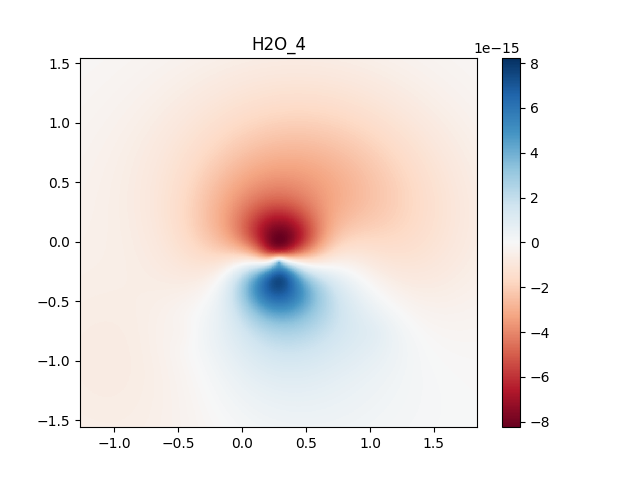
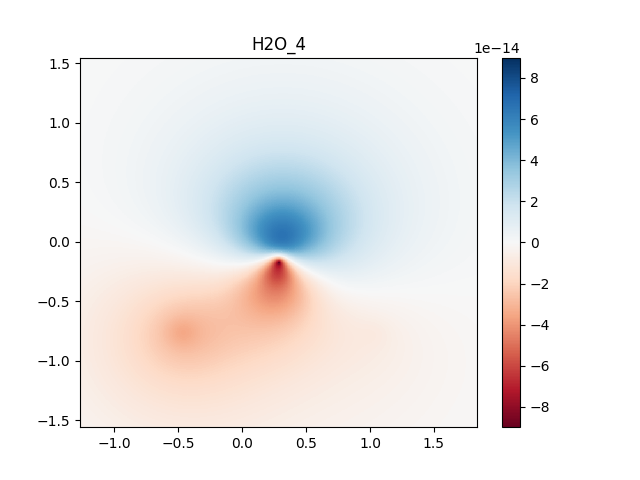
big optimization

diff --git a/src/BasisSet.cpp b/src/BasisSet.cpp
@@ -151,30 +151,68 @@ void BasisSet::calculateOverlapIntegrals()
 
 void BasisSet::calculateTwoElectronIntegrals()
 {
-	_D_Matrix.resize(_basisFucntion.size());
-	for (int i = 0; i < _basisFucntion.size(); i++)
-	{
-		_D_Matrix[i].resize(_basisFucntion.size());
-		for (int j = 0; j < _basisFucntion.size(); j++)
-		{
-			_D_Matrix[i][j].resize(_basisFucntion.size());
-			for (int k = 0; k < _basisFucntion.size(); k++)
-			{
-				_D_Matrix[i][j][k].resize(_basisFucntion.size());
-				std::vector<std::future<void>> futures;
-				for (int l = 0; l < _basisFucntion.size(); l++)
-				{
-					auto wsk = &_D_Matrix[i][j][k][l];
-					auto bs = &_basisFucntion;
-					futures.push_back(std::async(std::launch::async, [wsk, i, j, k, l, bs]() {
-						*wsk = ContractedGTO::calulateTwoElectronIntegral((*bs)[i], (*bs)[j], (*bs)[k], (*bs)[l]); }));
-				}
-				for (auto& e : futures)
-					e.wait();
-			}
-		}
+	auto siz = _basisFucntion.size();
 
+	_D_Matrix = new double[siz*siz*siz*siz];
+	double * S_Matrix = new double[_allPrimitives*_allPrimitives];
+
+	double * gausianData = new double[5 * _allPrimitives];
+	int * info = new int[siz];
+
+	int v = 0;
+	int sum = 0;
+	for(int i = 0; i <siz; ++i)
+	{
+		sum+=_basisFucntion[i].getPrimitives().size();
+		info[i] = sum;
+		for (auto & p: _basisFucntion[i].getPrimitives())
+		{
+			gausianData[5*v] = p.second.getalfa();
+			gausianData[5*v+1] = p.first;
+			auto pos = p.second.getR();
+			gausianData[5*v+2] = pos.x;
+			gausianData[5*v+3] = pos.y;
+			gausianData[5*v+4] = pos.z;
+			v++;
+		}		
 	}
+
+	for (int i = 0; i < _allPrimitives; i++)
+	{
+		for (int j = 0; j <= i; j++)
+		{
+			double res = calculateSPrimitive(i, j, gausianData, _allPrimitives);
+			S_Matrix[i *_allPrimitives + j] = res;
+			S_Matrix[j * _allPrimitives + i] = res;
+		}	
+	}
+	
+
+
+	for (int p = 0; p < siz; p++)
+	{
+		for (int q = 0; q <= p; q++)
+		{
+			for (int r = 0; r < siz; r++)
+			{
+				for (int s = 0; s <= r; s++)
+				{
+					double val = this->calculateDContracted(p, q, r, s, info, gausianData, S_Matrix, siz, _allPrimitives);
+					int siz2 = siz*siz;
+					int siz3 = siz*siz2;
+					_D_Matrix[p*siz3 + r*siz2 + q*siz + s] = val;
+					_D_Matrix[q*siz3 + r*siz2 + p*siz + s] = val;
+					_D_Matrix[p*siz3 + s*siz2 + q*siz + r] = val;
+					_D_Matrix[q*siz3 + s*siz2 + p*siz + r] = val;
+				}			
+			}		
+		}		
+	}
+
+	delete[] gausianData;
+	delete[] info;
+	delete[] S_Matrix;
+
 }
 
 void BasisSet::calculateIntegrals()
@@ -238,10 +276,92 @@ double BasisSet::getS(int i, int j)
 
 double BasisSet::getDI(int i, int j, int k, int l)
 {
-	return _D_Matrix[i][j][k][l];
+	auto siz = _basisFucntion.size();
+	return _D_Matrix[i*siz*siz*siz + j*siz*siz + k*siz + l];
 }
 
 double BasisSet::getFunctionValue(int n, const Position& p)const
 {
 	return _basisFucntion[n].F_X(p).real();
+}
+
+double BasisSet::calculateDContracted(int p, int q, int r, int s, int *info, double * primitives, double * SMat, int num, int pnum)
+{
+	int startP = 0;
+    if(p!=0)
+        startP = info[p - 1];
+    int endP = info[p];
+
+    int startQ = 0;
+    if(q!=0)
+        startQ = info[q - 1];
+	int endQ = info[q];
+	
+	int startR = 0;
+    if(r!=0)
+        startR = info[r- 1];
+	int endR = info[r];
+	
+	int startS = 0;
+    if(s!=0)
+        startS = info[s - 1];
+    int endS = info[s];
+
+	double res = 0.0;
+    for(int i = startP; i < endP; i++)
+    {
+		for(int j = startQ; j < endQ; j++)
+		{
+			for(int k = startR; k < endR; k++)
+			{
+				for(int l = startS; l < endS; l++)
+				{					
+					double r = calculateDPrimitive(i, j, k, l, pnum, SMat, primitives);
+					res +=primitives[i*5 + 1] * primitives[j*5 + 1] * primitives[k*5 + 1] * primitives[l*5 + 1] * r;
+					
+				}
+			}
+		}          
+	}
+	return res;
+}
+
+double BasisSet::calculateDPrimitive(int p, int q, int r, int s, int pnum, double * SMat, double * primitives)
+{
+	double Spq = SMat[p*pnum + q];
+	double Srs = SMat[r*pnum + s];
+	double Spqrs = Spq * Srs;
+	double ap = primitives[p*5];
+	double aq = primitives[q*5];
+	double ar = primitives[r*5];
+	double as = primitives[s*5];
+	double A = ap + aq;
+	double B = ar + as;
+	double AB = A + B;
+	double _A = 1.0/A;
+	double _B = 1.0/B;
+	double kx = _A*(ap*primitives[p*5 + 2]+ aq*primitives[q*5 + 2]);
+	double ky = _A*(ap*primitives[p*5 + 3]+ aq*primitives[q*5 + 3]);
+	double kz = _A*(ap*primitives[p*5 + 4]+ aq*primitives[q*5 + 4]);
+	double lx = _B*(ar*primitives[r*5 + 2]+ as*primitives[s*5 + 2]);
+	double ly = _B*(ar*primitives[r*5 + 3]+ as*primitives[s*5 + 3]);
+	double lz = _B*(ar*primitives[r*5 + 4]+ as*primitives[s*5 + 4]);
+	double xx = kx - lx;
+	double yy = ky - ly;
+	double zz = kz - lz;
+	double r2 = xx*xx + yy*yy + zz*zz;
+
+	return 2.0/M_SQRTPI * (sqrt(A*B))/sqrt(AB) * BoysCalculator::boys(A*B/AB * r2)*Spqrs;
+}
+
+double BasisSet::calculateSPrimitive(int row, int collumn, double * primitives, int primitivesNum)
+{
+	 double b = primitives[5*row] + primitives[5*collumn];
+    double B = primitives[5*row] * primitives[5*collumn];
+    double A = 4.0 * B / (b*b);
+    double x = primitives[5*row+2] - primitives[5*collumn + 2];
+    double y = primitives[5*row+3] - primitives[5*collumn + 3];
+    double z = primitives[5*row+4] - primitives[5*collumn + 4];
+    double R2 = x*x + y*y + z*z;
+    return pow(A, 0.75)* exp(-B*R2/b);
 }

diff --git a/src/App.cpp b/src/App.cpp
@@ -6,13 +6,16 @@ void App::run(const std::string & inputFile, const std::string & outputFile)
 
     _logger.open(outputFile);
 
-    Mol mol;
+    Mol mol{_parser.getNucleons()};
 
-    if(_parser.getOptFlag())
-        this->opt2Computation();
-    else
-        mol = this->singlePointComputation();
+    if(_parser.getMOCount() != -1)
+        mol.setMOcount(_parser.getMOCount());
 
+    if(_parser.getApproxFlag())
+        mol.setApproxIntegrals(true);
+
+    mol.HFComputation(_logger);
+    _logger.say("Drawing plots and finishing (for big molecules up to few minutes)\n");
     _outputCreator.createOutputFile(_logger, mol, _parser);
 
     if(_parser.getMOGraphFlag())
@@ -27,19 +30,9 @@ void App::run(const std::string & inputFile, const std::string & outputFile)
 }
 
 
-Mol App::singlePointComputation()
+void App::singlePointComputation()
 {
-    Mol molecule{_parser.getNucleons()};
 
-    if(_parser.getMOCount() != -1)
-        molecule.setMOcount(_parser.getMOCount());
-
-    if(_parser.getApproxFlag())
-        molecule.setApproxIntegrals(true);
-
-    molecule.HFComputation(_logger);
-
-    return molecule;
 }
 
 void App::opt2Computation()

diff --git a/include/BasisSet.h b/include/BasisSet.h
@@ -19,8 +19,8 @@ class BasisSet
 {
 public:
 
-	BasisSet() {delete[] _D_Matrix;};
-
+	BasisSet() {};
+	~BasisSet(){delete[] _D_Matrix;};
 	BasisSet(const BasisSet & b) = delete;
 
 	void createBasisSet(const std::vector<Nucleon> & nucleons);
@@ -50,7 +50,7 @@ private:
 
 	std::vector<std::vector<double>> _H_Matrix;
 
-	double * _D_Matrix;
+	double * _D_Matrix = nullptr;
 
 	std::vector<Nucleon> _nucleons;
 
@@ -64,8 +64,9 @@ private:
 	void calculateOverlapIntegrals();
 	void calculateTwoElectronIntegrals();
 
-	void calculateDContracted();
-	double calculateDPrimitive();
+	double calculateDContracted(int p, int q, int r, int s, int *info, double * primitives, double * SMat, int num, int pnum);
+	double calculateDPrimitive(int p, int q, int r, int s, int pnum, double * SMat, double * primitives);
 
+	double calculateSPrimitive(int row, int collumn, double * primitives, int primitivesNum);
 };
 

diff --git a/include/ContractedGTO.h b/include/ContractedGTO.h
@@ -13,6 +13,8 @@ public:
 	static double calulateTwoElectronIntegral(const ContractedGTO& a, const ContractedGTO& b, const ContractedGTO& c, const ContractedGTO& d);
 	static double calulateTwoElectronIntegral(const ContractedGTO& a, const ContractedGTO& b, const ContractedGTO& c, const ContractedGTO& d, double Spq, double Srs);
 
+	const std::vector<std::pair<double, GaussianOrbital>>& getPrimitives()const{return _primitives;}
+
 private:
 
 	std::vector<std::pair<double, GaussianOrbital>> _primitives;

diff --git a/src/Mol.cpp b/src/Mol.cpp
@@ -133,6 +133,7 @@ void Mol::HFSelfConsistentFieldMethod(Logger & logger)
 		HFProcedure();
 		oldE = newE;
 		newE = this->getTotalEnergy();
+		std::cout<< "Loop["<<i+1<<"] energy: "<<newE<<"\n";
 
 		i++;
 
@@ -147,8 +148,8 @@ void Mol::HFSelfConsistentFieldMethod(Logger & logger)
 			break;
 		}			
 	} 
-
-	if(abs(oldE-newE) < 0.00001)
+	
+	if(abs(oldE-newE) < ERROR)
 		logger.say("Lack of significant changes in energy\nEnd of SCF\n");
 }
 

diff --git a/src/GaussianOrbital.cpp b/src/GaussianOrbital.cpp
@@ -6,12 +6,12 @@ void GaussianOrbital::setalfa(double a)
 	this->recalculateNormalizationParam();
 }
 
-Position GaussianOrbital::getR()
+Position GaussianOrbital::getR()const
 {
 	return R0;
 }
 
-double GaussianOrbital::getalfa()
+double GaussianOrbital::getalfa()const
 {
 	return alfa;
 }

diff --git a/include/Constants.h b/include/Constants.h
@@ -5,6 +5,7 @@
 #define PI 3.14159265358979323846
 #define M_SQRTPI 1.77245385090551602729816748334
 #define BOHR_TO_ANGSTROM 0.52917721
+#define ERROR 1.0e-6
 
 
 constexpr int NUCLEON_COUNT = 10;

diff --git a/include/App.h b/include/App.h
@@ -23,7 +23,7 @@ private:
 
 private:
 
-    Mol singlePointComputation();
+    void singlePointComputation();
 
     void opt2Computation();
 
